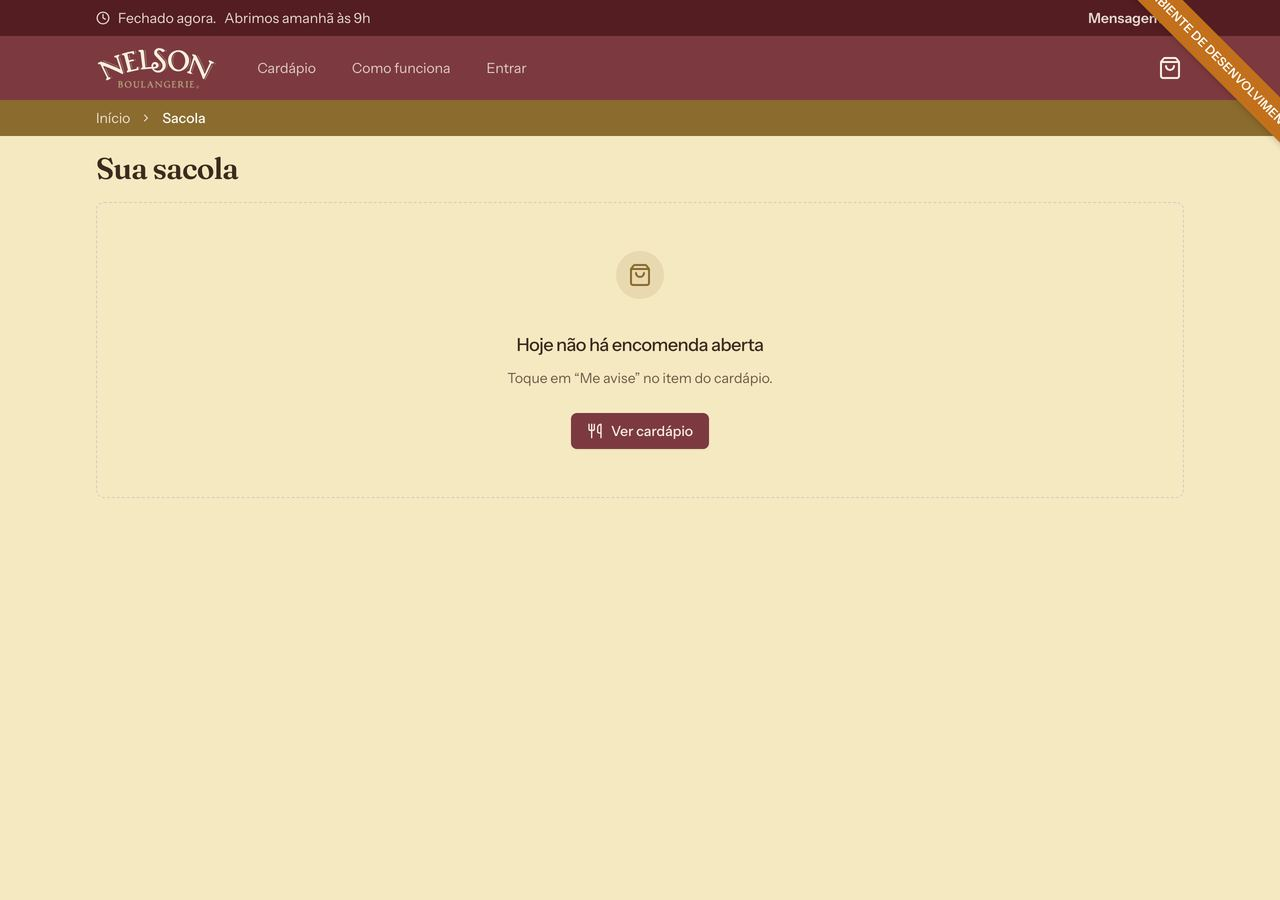
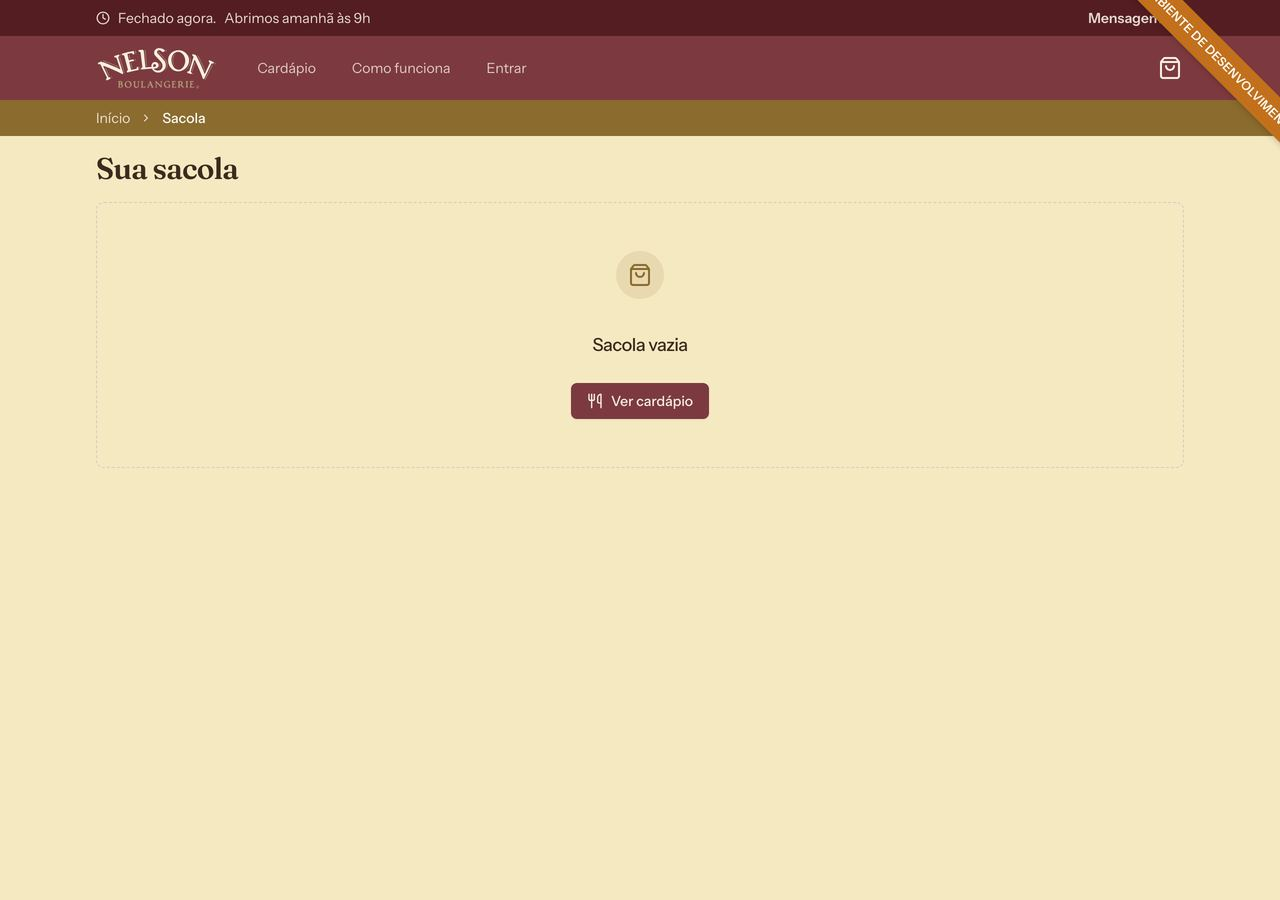
OC-04: sem nada para pedir, a home e a sacola não dizem nada (dono, prévia 24/11)
"É uma informação que pertence aos itens, um a um." Com `ordering.state ==
"none"`, o hero fica só com a saudação e "Ver cardápio" (a faixa do topo diz
quando abre) e a sacola vazia é o vazio simples ("Sacola vazia", sem
mensagem) com "Ver cardápio". O "Me avise" vive só no item. X1 agora se
prova pela ausência de frase. Sai a copy CART_EMPTY_NO_ORDERING. Capturas do
estado none refeitas (home e sacola, 375 e desktop).

Compromisso: DEV-2026-085

Changed region(s): [[0.4062, 0.3733, 0.5938, 0.4978]]

diff --git a/surfaces/storefront-nuxt/app/presentation/home.ts b/surfaces/storefront-nuxt/app/presentation/home.ts
@@ -13,18 +13,13 @@ import type { OrderingProjection } from '~/types/shopman'
 // Algo tem horário hoje (a casa ainda abre hoje).
 export const CLOSED_HERO_HINT = 'Já dá para pedir.'
 
-// Nada do cardápio pode ir à sacola: diz isso e aponta o "Me avise" de cada
-// item. Nunca promete finalização.
-export const NO_ORDERING_HINT = 'Hoje não há encomenda aberta. Toque em “Me avise” no item.'
-
 // O primeiro horário é de outro dia: a frase diz qual ("amanhã, terça").
 export function preorderHint (dayLabel: string): string {
   return `Encomende para ${dayLabel}.`
 }
 
 function orderingHint (ordering: OrderingProjection, statusOpen: boolean): string {
-  if (ordering.state === 'none') return NO_ORDERING_HINT
-  if (statusOpen) return ''
+  if (ordering.state === 'none' || statusOpen) return ''
   if (ordering.state === 'preorder' && ordering.day_label.trim()) return preorderHint(ordering.day_label.trim())
   return CLOSED_HERO_HINT
 }
@@ -32,10 +27,12 @@ function orderingHint (ordering: OrderingProjection, statusOpen: boolean): strin
 /**
  * A linha acima do título do hero, ou `undefined` quando não há o que dizer.
  *
- * Nada encomendável (aberta ou fechada): só isso e o "Me avise". Casa fechada
- * com o que pedir: a primeira frase do estado ("Fechado agora") e o que fazer.
- * Casa aberta com o que pedir: nada. Sem `ordering` (resposta sem o campo), só
- * o estado inteiro: a frase nunca promete o que a projeção não confirmou.
+ * Casa fechada com o que pedir: a primeira frase do estado ("Fechado agora") e
+ * o que fazer. Nada encomendável (aberta ou fechada) ou casa aberta: nada; o
+ * hero fica com a saudação e o botão, e o "Me avise" vive em cada item (dono,
+ * prévia de 24/11: "é uma informação que pertence aos itens"). Sem `ordering`
+ * (resposta sem o campo), só o estado: nunca promete o que a projeção não
+ * confirmou.
  */
 export function heroEyebrow (input: {
   statusOpen: boolean
@@ -47,7 +44,7 @@ export function heroEyebrow (input: {
     return input.statusOpen || !label ? undefined : `${label}.`
   }
   const hint = orderingHint(input.ordering, input.statusOpen)
-  if (input.ordering.state === 'none' || input.statusOpen) return hint || undefined
+  if (!hint) return undefined
   const state = label.split('. ')[0]?.trim()
   return state ? `${state}. ${hint}` : hint
 }

diff --git a/surfaces/storefront-nuxt/tests/homePresentation.test.ts b/surfaces/storefront-nuxt/tests/homePresentation.test.ts
@@ -1,7 +1,6 @@
 import { describe, expect, it } from 'vitest'
 import {
   CLOSED_HERO_HINT,
-  NO_ORDERING_HINT,
   closedHeroCtaLabel,
   heroEyebrow,
   preorderHint
@@ -13,20 +12,11 @@ const PREORDER: OrderingProjection = { state: 'preorder', next_date: '2026-11-18
 const NONE: OrderingProjection = { state: 'none', next_date: null, day_label: '' }
 const CLOSED = 'Fechado agora. Abrimos amanhã às 9h'
 
-// Toda frase que convida a pedir (finalizar, encomendar, fazer pedido).
-const ORDER_OFFER = /finalizar|encomendar para|Encomende|dá para pedir|Fazer pedido/
-
 describe('home presentation: o topo diz só o que dá para pedir (OC-04)', () => {
-  it('X1: com nada encomendável, a home não oferece finalização, aberta ou fechada', () => {
-    const closed = heroEyebrow({ statusOpen: false, statusLabel: CLOSED, ordering: NONE })
-    const open = heroEyebrow({ statusOpen: true, statusLabel: 'Aberto até 18h', ordering: NONE })
-
-    expect(closed).toBe('Hoje não há encomenda aberta. Toque em “Me avise” no item.')
-    expect(open).toBe(NO_ORDERING_HINT)
-    for (const text of [closed, open]) {
-      expect(text).not.toMatch(ORDER_OFFER)
-      expect(text).toMatch(/Me avise/)
-    }
+  it('X1: com nada encomendável, o topo não diz nada (aberta ou fechada) e o botão é o do cardápio', () => {
+    // O "Me avise" vive em cada item (dono, prévia de 24/11); a faixa do topo já diz quando abre.
+    expect(heroEyebrow({ statusOpen: false, statusLabel: CLOSED, ordering: NONE })).toBeUndefined()
+    expect(heroEyebrow({ statusOpen: true, statusLabel: 'Aberto até 18h', ordering: NONE })).toBeUndefined()
     // Sem rótulo próprio: o hero cai na copy do servidor (HOME_MENU_CTA, "Ver cardápio").
     expect(closedHeroCtaLabel(NONE)).toBeUndefined()
   })
@@ -62,7 +52,7 @@ describe('home presentation: o topo diz só o que dá para pedir (OC-04)', () =>
   })
 
   it('frases curtas, sem travessão e sem "finaliza quando abrirmos" (beta 06/11; dono 24/11: prolixo)', () => {
-    for (const text of [CLOSED_HERO_HINT, NO_ORDERING_HINT, preorderHint('amanhã, quarta')]) {
+    for (const text of [CLOSED_HERO_HINT, preorderHint('amanhã, quarta')]) {
       expect(text).not.toMatch(/[—–]/)
       expect(text).not.toMatch(/finaliza quando abrirmos/)
       expect(text.split(/\s+/).length).toBeLessThanOrEqual(12)

diff --git a/surfaces/storefront-nuxt/tests/projectionContracts.test.ts b/surfaces/storefront-nuxt/tests/projectionContracts.test.ts
@@ -140,6 +140,6 @@ describe('contrato compartilhado: storefront_ordering (OC-04)', () => {
     expect(heroEyebrow({ statusOpen: false, statusLabel: 'Fechado agora', ordering: orderingContract.home }))
       .toBe('Fechado agora. Já dá para pedir.')
     const none: OrderingProjection = { ...orderingContract.home, state: 'none', next_date: null, day_label: '' }
-    expect(heroEyebrow({ statusOpen: false, statusLabel: 'Fechado agora', ordering: none })).not.toMatch(/pedir|finalizar|Encomende/)
+    expect(heroEyebrow({ statusOpen: false, statusLabel: 'Fechado agora', ordering: none })).toBeUndefined()
   })
 })

diff --git a/surfaces/storefront-nuxt/app/pages/sacola.vue b/surfaces/storefront-nuxt/app/pages/sacola.vue
@@ -234,7 +234,7 @@ useSeoMeta({
           </UiEmptyMedia>
           <UiEmptyHeader>
             <UiEmptyTitle>{{ cart.empty_title }}</UiEmptyTitle>
-            <UiEmptyDescription>{{ cart.empty_message }}</UiEmptyDescription>
+            <UiEmptyDescription v-if="cart.empty_message">{{ cart.empty_message }}</UiEmptyDescription>
           </UiEmptyHeader>
           <UiEmptyContent class="flex flex-col items-center gap-2">
             <UiButton :to="continueAction?.href || '/menu'" icon="lucide:utensils">

diff --git a/shopman/storefront/tests/web/test_projections_cart.py b/shopman/storefront/tests/web/test_projections_cart.py
@@ -43,6 +43,20 @@ def _request_with_cart_session(client):
 # ──────────────────────────────────────────────────────────────────────
 
 
+@pytest.fixture
+def something_to_order(monkeypatch):
+    """Há o que pedir (OC-04): a sacola vazia fala pela copy do momento."""
+    from shopman.storefront.presentation import cart as cart_presentation
+    from shopman.storefront.presentation.catalog import CatalogOrdering
+    from shopman.storefront.presentation.promise import OrderingProjection
+
+    monkeypatch.setattr(
+        cart_presentation,
+        "build_ordering",
+        lambda **_kw: CatalogOrdering(OrderingProjection("now", "2026-11-17", "hoje"), frozenset({"PAO"})),
+    )
+
+
 class TestEmptyCart:
     def test_empty_cart_has_stable_shape(self, client):
         rf = RequestFactory()
@@ -69,7 +83,7 @@ class TestEmptyCart:
         assert checkout.reason == "Sacola vazia."
         assert checkout.href == "/finalizar"
 
-    def test_empty_cart_carries_omotenashi_copy(self, client):
+    def test_empty_cart_carries_omotenashi_copy(self, client, something_to_order):
         """A sacola vazia fala pelo registro, não por string na tela."""
         rf = RequestFactory()
         request = rf.get("/carrinho/")
@@ -80,19 +94,9 @@ class TestEmptyCart:
         assert proj.empty_title
         assert proj.empty_message
 
-    def test_empty_copy_honours_admin_override(self, client, monkeypatch):
+    def test_empty_copy_honours_admin_override(self, client, something_to_order):
         """O operador reescreve o estado vazio pelo Admin, sem deploy."""
         from shopman.shop.models import OmotenashiCopy
-        from shopman.storefront.presentation import cart as cart_presentation
-        from shopman.storefront.presentation.catalog import CatalogOrdering
-        from shopman.storefront.presentation.promise import OrderingProjection
-
-        # Há o que pedir: a copy do momento vale (sem nada, vale CART_EMPTY_NO_ORDERING).
-        monkeypatch.setattr(
-            cart_presentation,
-            "build_ordering",
-            lambda **_kw: CatalogOrdering(OrderingProjection("now", "2026-11-17", "hoje"), frozenset({"PAO"})),
-        )
 
         OmotenashiCopy.objects.create(
             key="CART_EMPTY",
@@ -110,16 +114,16 @@ class TestEmptyCart:
         assert proj.empty_title == "Sacola vazia, dia cheio"
         assert proj.empty_message == "Escolha um pão e nós cuidamos do resto."
 
-    def test_nothing_to_order_copy_honours_admin_override(self, client):
-        """A copy de "nada para pedir" também é do Admin (OC-04)."""
+    def test_nothing_to_order_is_the_plain_empty_state(self, client):
+        """Nada para pedir (OC-04): o vazio simples, sem convite nem frase de encomenda.
+
+        Nem a copy do momento ("Você pode encomendar para o próximo dia", "Ainda dá
+        tempo") nem o override do Admin entram: o "Me avise" vive em cada item.
+        """
         from shopman.shop.models import OmotenashiCopy
 
         OmotenashiCopy.objects.create(
-            key="CART_EMPTY_NO_ORDERING",
-            moment="*",
-            audience="*",
-            title="Nada no forno por enquanto",
-            message="Toque em “Me avise” no cardápio.",
+            key="CART_EMPTY", moment="*", audience="*", title="Ainda dá tempo", message="Peça já.",
         )
         rf = RequestFactory()
         request = rf.get("/carrinho/")
@@ -128,8 +132,9 @@ class TestEmptyCart:
         proj = build_cart(request=request, channel_ref=STOREFRONT_CHANNEL_REF)
 
         assert proj.ordering is not None and proj.ordering.state == "none"
-        assert proj.empty_title == "Nada no forno por enquanto"
-        assert proj.empty_message == "Toque em “Me avise” no cardápio."
+        assert (proj.empty_title, proj.empty_message) == ("Sacola vazia", "")
+        [continue_action] = [a for a in proj.actions if a.ref == "continue_shopping"]
+        assert continue_action.label == "Ver cardápio"
 
     def test_populated_cart_skips_empty_copy(self, cart_session):
         """Sacola com itens não resolve a copy do vazio — o bloco nem renderiza."""

diff --git a/shopman/storefront/presentation/cart.py b/shopman/storefront/presentation/cart.py
@@ -851,17 +851,23 @@ def _empty_copy(
 
     ``nothing_to_order``: nenhum item do cardápio tem promessa (OC-04). A copy
     do momento convida a pedir ("Você pode encomendar para o próximo dia",
-    "Pode ir escolhendo o que quer"), e ninguém consegue; a sacola diz que hoje
-    não há encomenda aberta e aponta o aviso, em qualquer momento.
+    "Ainda dá tempo", "Pode ir escolhendo o que quer"), e ninguém consegue.
+    A sacola fica no vazio simples, sem frase: o que falta para cada item (o
+    "Me avise") é dito no próprio item (dono, prévia de 24/11).
     """
     if not is_empty:
         return "", ""
+    if nothing_to_order:
+        return _PLAIN_EMPTY_TITLE, ""
     from shopman.shop.omotenashi import OmotenashiContext
 
     omo = OmotenashiContext.from_request(request)
-    key = "CART_EMPTY_NO_ORDERING" if nothing_to_order else "CART_EMPTY"
-    entry = resolve_copy(key, moment=omo.moment, audience=omo.audience)
+    entry = resolve_copy("CART_EMPTY", moment=omo.moment, audience=omo.audience)
     return (entry.title or "").strip(), (entry.message or "").strip()
+
+
+#: O vazio sem convite: diz o estado da sacola e mais nada (OC-04).
+_PLAIN_EMPTY_TITLE = "Sacola vazia"
 
 
 def _cart_actions(

diff --git a/shopman/shop/omotenashi/copy.py b/shopman/shop/omotenashi/copy.py
@@ -147,17 +147,6 @@ OMOTENASHI_DEFAULTS: dict[str, dict[str, dict[str, CopyEntry]]] = {
             ),
         },
     },
-    # Sacola vazia quando NENHUM item do cardápio pode ser pedido (OC-04): a copy
-    # do momento convida a pedir, e não há o que pedir. Vale em qualquer momento.
-    # O caminho que existe é o "Me avise" de cada item, no cardápio.
-    "CART_EMPTY_NO_ORDERING": {
-        WILDCARD: {
-            WILDCARD: CopyEntry(
-                title="Hoje não há encomenda aberta",
-                message="Toque em “Me avise” no item do cardápio.",
-            ),
-        },
-    },
 
     # ── Product states ────────────────────────────────────────────
 

diff --git a/shopman/storefront/tests/test_ordering_projection.py b/shopman/storefront/tests/test_ordering_projection.py
@@ -266,9 +266,8 @@ def test_x1_nada_encomendavel_a_home_e_a_sacola_nao_oferecem_finalizar():
     rendered = json.dumps(offers, ensure_ascii=False) + json.dumps(cart, ensure_ascii=False)
     assert "finalizar o pedido" not in rendered
     assert "Você pode encomendar" not in rendered
-    # A sacola vazia diz o que há (nenhuma encomenda) e aponta o aviso.
-    assert cart["empty_title"] == "Hoje não há encomenda aberta"
-    assert "Me avise" in cart["empty_message"]
+    # A sacola vazia fica no vazio simples: o "Me avise" vive em cada item.
+    assert (cart["empty_title"], cart["empty_message"]) == ("Sacola vazia", "")
     [continue_action] = [a for a in cart["actions"] if a["ref"] == "continue_shopping"]
     assert continue_action["label"] == "Ver cardápio"
 

diff --git a/shopman/shop/omotenashi/usage_map.py b/shopman/shop/omotenashi/usage_map.py
@@ -57,9 +57,6 @@ USAGE: dict[str, tuple[tuple[str, str, str], ...]] = {
     "CART_EMPTY": (
         ("shopman/storefront/presentation/cart.py", "Loja", "Sacola"),
     ),
-    "CART_EMPTY_NO_ORDERING": (
-        ("shopman/storefront/presentation/cart.py", "Loja", "Sacola"),
-    ),
     "CART_UNAVAILABLE_BANNER": (
         ("shopman/storefront/presentation/cart.py", "Loja", "Sacola"),
     ),
